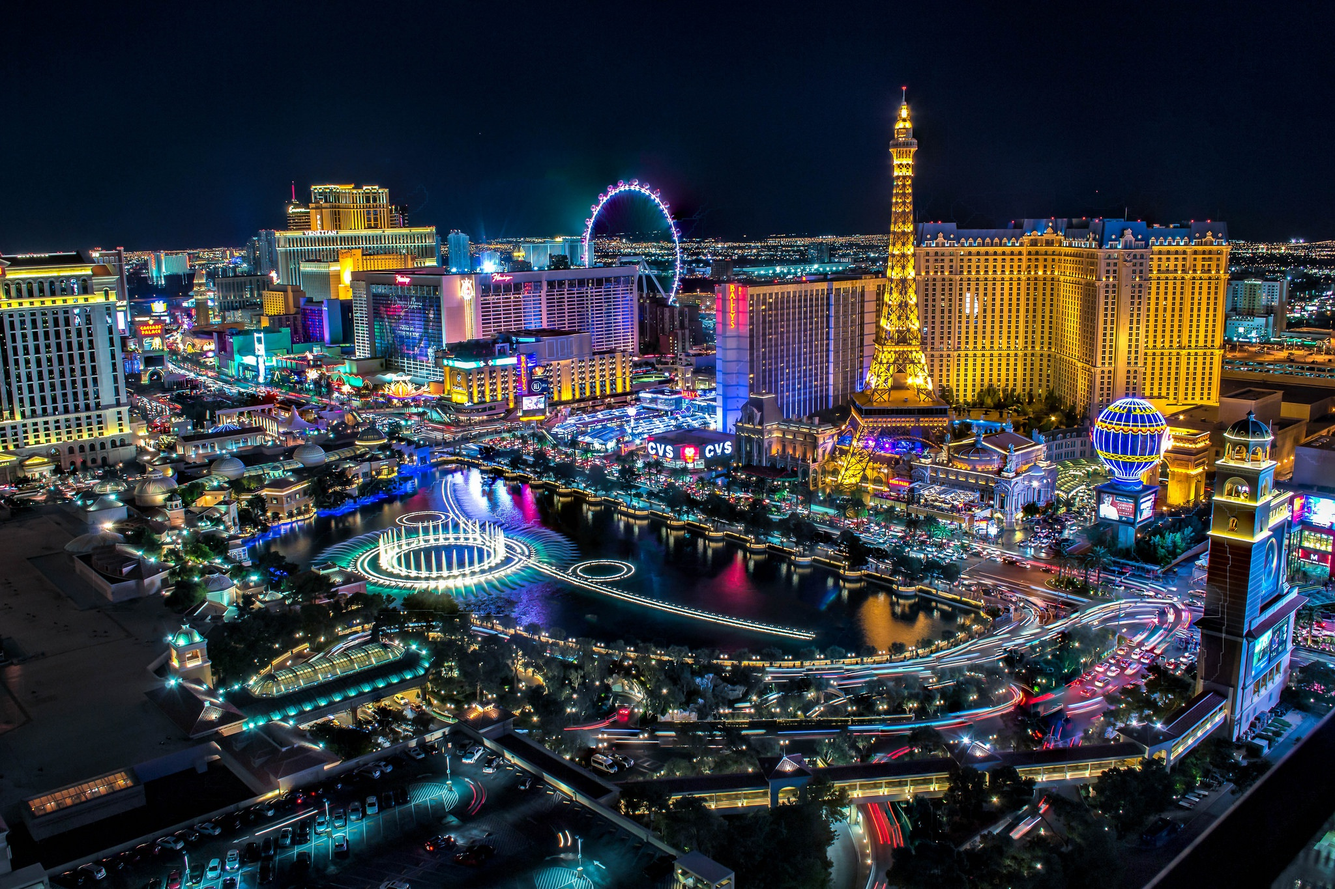
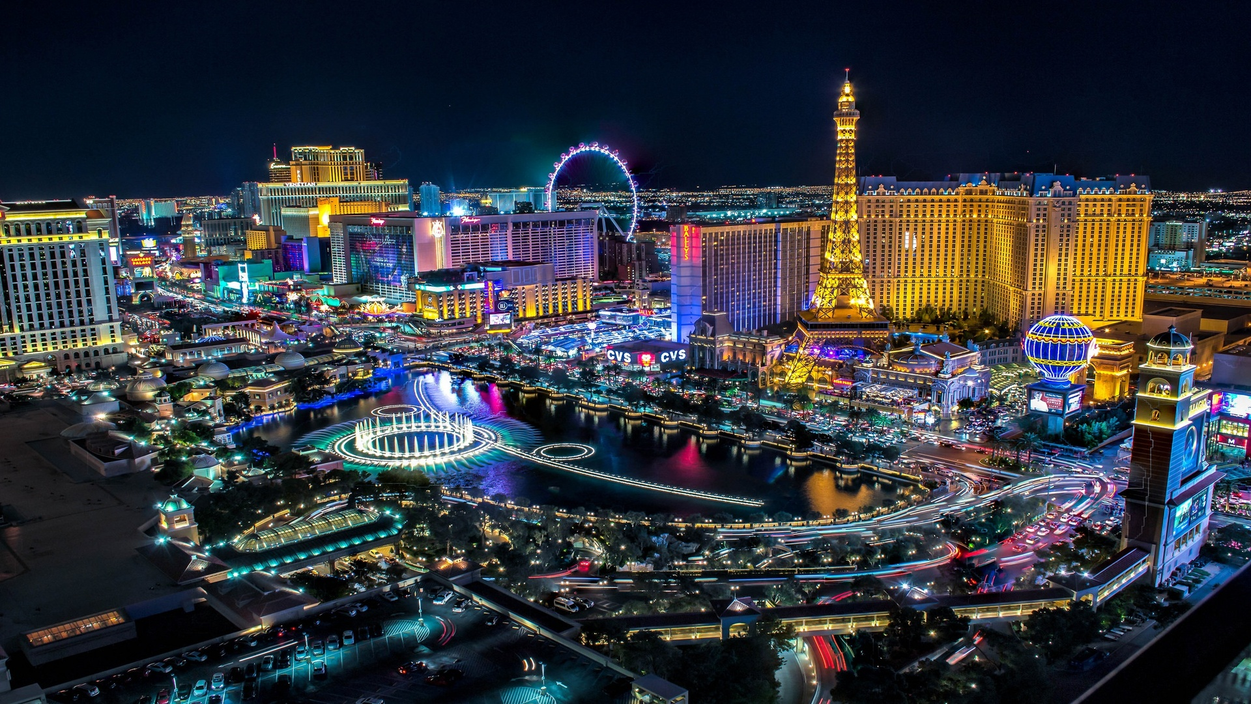
15-11-2023

diff --git a/css/styles.css b/css/styles.css
@@ -19,6 +19,8 @@
 }
 
 .navbar{
+    padding-top: 0;
+    padding-bottom: 0;
     background-color: var(--navbar-color) !important;
 }
 
@@ -59,6 +61,35 @@
     background-position: center center;
     background-repeat: no-repeat;
     background-size: cover;
-    height: 30rem;
+    height: 20rem;
 }
 
+
+@media (min-width: 576px) {
+
+
+}
+
+@media (min-width: 768px) {
+    
+}
+
+
+@media (min-width: 992px) {
+    .carousel-item > img{
+        height: 91vh !important;
+    }
+
+    .card-room__img{
+        height: 30rem;
+    }
+}
+
+
+@media (min-width: 1200px) {
+
+}
+
+@media (min-width: 1400px) {
+
+}

diff --git a/index.php b/index.php
@@ -3,29 +3,29 @@
 <?php include($_SERVER['DOCUMENT_ROOT'] . '/student044/dwes/proyectoHotel/header.php') ?>
 
 <!-- SLIDER -->
-<div id="carouselExampleCaptions" class="carousel slide">
+<div id="carouselExampleCaptions" class="carousel slide" >
     <div class="carousel-indicators">
         <button type="button" data-bs-target="#carouselExampleCaptions" data-bs-slide-to="0" class="active" aria-current="true" aria-label="Slide 1"></button>
         <button type="button" data-bs-target="#carouselExampleCaptions" data-bs-slide-to="1" aria-label="Slide 2"></button>
         <button type="button" data-bs-target="#carouselExampleCaptions" data-bs-slide-to="2" aria-label="Slide 3"></button>
     </div>
     <div class="carousel-inner">
-        <div class="carousel-item active" ">
-            <img src="./img/slider1.jpg" class="d-block w-100  ">
+        <div class="carousel-item active">
+            <img src="./img/slider1.jpg" class="d-block w-100 slider__img">
             <div class="carousel-caption d-none d-md-block">
                 <h5>First slide label</h5>
                 <p>Some representative placeholder content for the first slide.</p>
             </div>
         </div>
         <div class="carousel-item">
-            <img src="./img/slider2.jpg" class="d-block w-100"">
+            <img src="./img/slider2.jpg" class="d-block w-100 slider__img">
       <div class=" carousel-caption d-none d-md-block">
             <h5>Second slide label</h5>
             <p>Some representative placeholder content for the second slide.</p>
         </div>
     </div>
     <div class="carousel-item">
-        <img src="./img/slider3.jpg" class="d-block w-100"">
+        <img src="./img/slider3.jpg" class="d-block w-100 slider__img">
       <div class=" carousel-caption d-none d-md-block">
         <h5>Third slide label</h5>
         <p>Some representative placeholder content for the third slide.</p>
@@ -43,7 +43,7 @@
 </div>
 
 <!-- CARD ROOM -->
-<div class=" p-5 position-relative">
+<div class="p-4 p-md-5">
     <div class="row mt-2">
         <div class="col-12 col-sm-12 col-md-6 card-room__img "></div>
         <div class="col-12 col-sm-12 col-md-6 order-0 d-flex flex-column justify-content-center align-items-center p-5">
